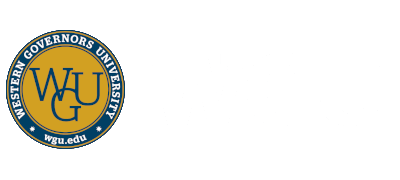
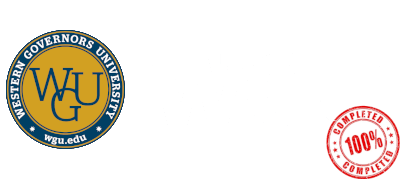
updates for graduation and other updates

Changed region(s): [[0.81, 0.5833, 1.0, 1.0]]

diff --git a/navigationBar.js b/navigationBar.js
@@ -1,34 +1,34 @@
 document.addEventListener('DOMContentLoaded', function () {
   const navItems = [
     { text: 'Story', link: '/#mystory' },
+    { text: 'Projects', link: '/#projects' },
     { text: 'Training', link: '/#training' },
     { text: 'Experience', link: '/#languages' },
     { text: 'Tools', link: '/#tools' },
     { text: 'Goals', link: '/#goals' },
-    { text: 'Projects', link: '/#projects' },
     { text: 'Resume', link: '/#resume' }
-  ]
+  ];
 
   // Function to create a navigation item
   const createNavItem = navItem => {
-    const listItem = document.createElement('li')
-    listItem.className = 'nav-item'
+    const listItem = document.createElement('li');
+    listItem.className = 'nav-item';
 
-    const anchor = document.createElement('a')
-    anchor.className = 'nav-link'
-    anchor.href = navItem.link
-    anchor.innerText = navItem.text
+    const anchor = document.createElement('a');
+    anchor.className = 'nav-link';
+    anchor.href = navItem.link;
+    anchor.innerText = navItem.text;
 
-    listItem.appendChild(anchor)
+    listItem.appendChild(anchor);
 
-    return listItem
-  }
+    return listItem;
+  };
 
   // Append navigation items to the container
-  const navContainer = document.querySelector('.navbar-nav')
+  const navContainer = document.querySelector('.navbar-nav');
 
   navItems.forEach(navItem => {
-    const listItem = createNavItem(navItem)
-    navContainer.appendChild(listItem)
-  })
-})
+    const listItem = createNavItem(navItem);
+    navContainer.appendChild(listItem);
+  });
+});

diff --git a/training/index.html b/training/index.html
@@ -71,7 +71,7 @@
             >Bachelors of Science in Software Engineering</a
           >
         </p>
-        <p>Expected graduation date: Feb 2025</p>
+        <p>Graduation date: March 2025</p>
 
         <div class="mx-auto description-title card-body bg-dark">
           <p>
@@ -535,8 +535,8 @@
               <div class="card-text">
                 <strong>CodeWars Profile:</strong>
                 <ul>
-                  <li>Total Kata Completed: 1,023</li>
-                  <li>Honor: 1,291 (Top 3%)</li>
+                  <li>Total Kata Completed: 1,227</li>
+                  <li>Honor: 1,497 (Top 2.2%)</li>
                   <li>JavaScript: 4 kyu (Competent)</li>
                   <li>Python: 4 kyu (Competent)</li>
                   <li>Java: 5 kyu (Novice)</li>
@@ -667,13 +667,13 @@
 
     <!-- Mimo -->
     <section id="mimo" class="section">
-      <div class="text-center">
-        <a target="_blank" href="https://mimo.org/"
-          ><img
-            src="../images/mimo.png"
-            class="img-fluid mx-auto"
-            style="max-width: 400px"
-            alt="mimo logo"
+      <div class="titleimages text-center">
+        <a
+          target="_blank"
+          class="card-img-top w-75"
+          class="text-center"
+          href="https://mimo.org/"
+          ><img target="_blank" src="../images/mimo.png" alt="mimo logo"
         /></a>
       </div>
       <div class="container">
